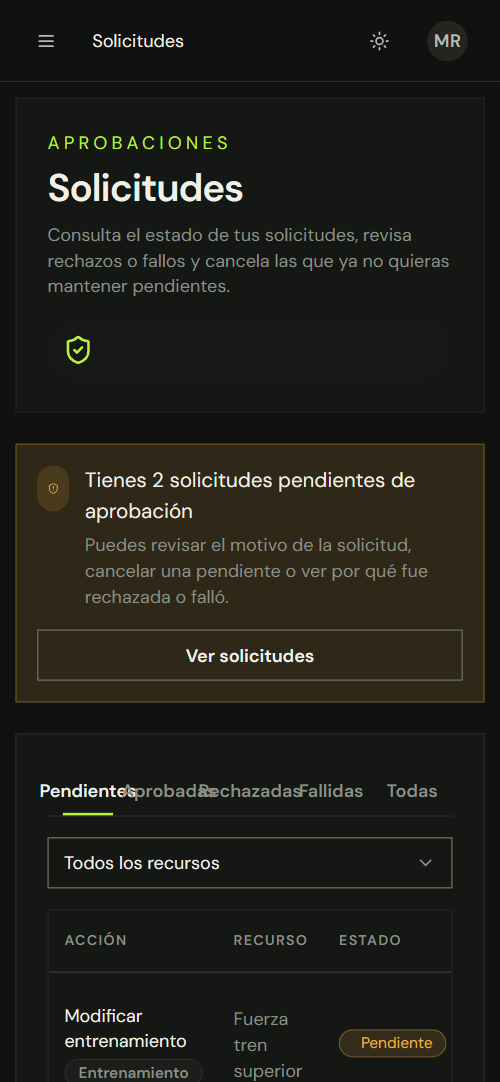
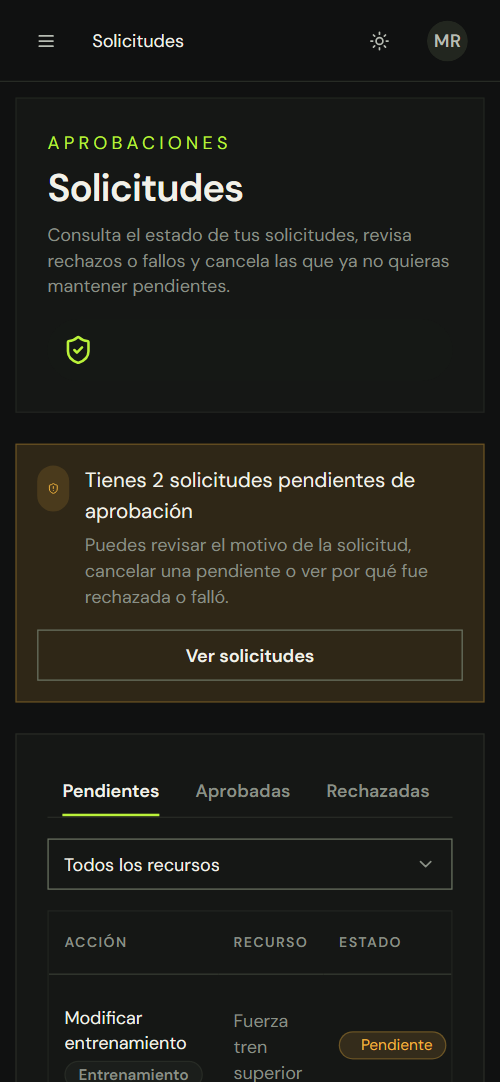
fix(admin): pestañas de Solicitudes y Badges sin solapes en pantallas estrechas
En móvil la fila de pestañas se desplaza en horizontal en lugar de comprimir una rejilla fija; cada etiqueta queda en una línea. Solo clases de presentación. Capturas a 390 y 1440 px.

diff --git a/src/features/badges/pages/badges-page.tsx b/src/features/badges/pages/badges-page.tsx
@@ -687,29 +687,29 @@ export function BadgesPage() {
       </div>
 
       <Tabs value={activeCatalog} onValueChange={(value) => setActiveCatalog(value as CatalogId)}>
-        <div className="flex flex-col gap-4 lg:flex-row lg:items-center lg:justify-between">
-          <TabsList className="grid h-auto w-full grid-cols-1 gap-1 sm:grid-cols-3 lg:grid-cols-6 lg:w-auto">
-            <TabsTrigger value="muscle-groups" className="min-h-10 whitespace-normal">
+        <div className="flex flex-col gap-4 xl:flex-row xl:items-center xl:justify-between">
+          <TabsList className="h-auto w-full max-w-full justify-start gap-1 overflow-x-auto xl:w-auto xl:overflow-visible">
+            <TabsTrigger value="muscle-groups" className="min-h-10 shrink-0">
               Grupos musculares
             </TabsTrigger>
-            <TabsTrigger value="equipment" className="min-h-10 whitespace-normal">
+            <TabsTrigger value="equipment" className="min-h-10 shrink-0">
               Equipamiento
             </TabsTrigger>
-            <TabsTrigger value="training-types" className="min-h-10 whitespace-normal">
+            <TabsTrigger value="training-types" className="min-h-10 shrink-0">
               Tipos entrenos
             </TabsTrigger>
-            <TabsTrigger value="training-tags" className="min-h-10 whitespace-normal">
+            <TabsTrigger value="training-tags" className="min-h-10 shrink-0">
               Tags entrenos
             </TabsTrigger>
-            <TabsTrigger value="diet-badges" className="min-h-10 whitespace-normal">
+            <TabsTrigger value="diet-badges" className="min-h-10 shrink-0">
               Badges dieta
             </TabsTrigger>
-            <TabsTrigger value="diet-tags" className="min-h-10 whitespace-normal">
+            <TabsTrigger value="diet-tags" className="min-h-10 shrink-0">
               Tags dieta
             </TabsTrigger>
           </TabsList>
 
-          <div className="relative w-full lg:max-w-sm">
+          <div className="relative w-full xl:max-w-sm">
             <Search className="absolute left-3 top-1/2 h-4 w-4 -translate-y-1/2 text-muted-foreground" />
             <Input
               value={search}

diff --git a/src/features/approval-requests/pages/approval-requests-page.tsx b/src/features/approval-requests/pages/approval-requests-page.tsx
@@ -150,9 +150,9 @@ export function ApprovalRequestsPage() {
         <CardContent className="space-y-4 p-6">
           <div className="flex flex-col gap-4 xl:flex-row xl:items-center xl:justify-between">
             <Tabs value={status} onValueChange={(value) => updateSearchParams({ status: value as ApprovalStatusFilter, page: 1 })}>
-              <TabsList className="grid w-full grid-cols-5 xl:w-auto">
+              <TabsList className="h-auto w-full max-w-full justify-start gap-1 overflow-x-auto sm:grid sm:h-10 sm:grid-cols-5 sm:gap-0 sm:overflow-visible xl:w-auto">
                 {getApprovalStatusFilterOptions().map((value) => (
-                  <TabsTrigger key={value} value={value}>
+                  <TabsTrigger key={value} value={value} className="min-h-10 shrink-0 sm:min-h-0 sm:shrink">
                     {value === 'ALL' ? 'Todas' : value === 'PENDING' ? 'Pendientes' : value === 'APPROVED' ? 'Aprobadas' : value === 'REJECTED' ? 'Rechazadas' : 'Fallidas'}
                   </TabsTrigger>
                 ))}
